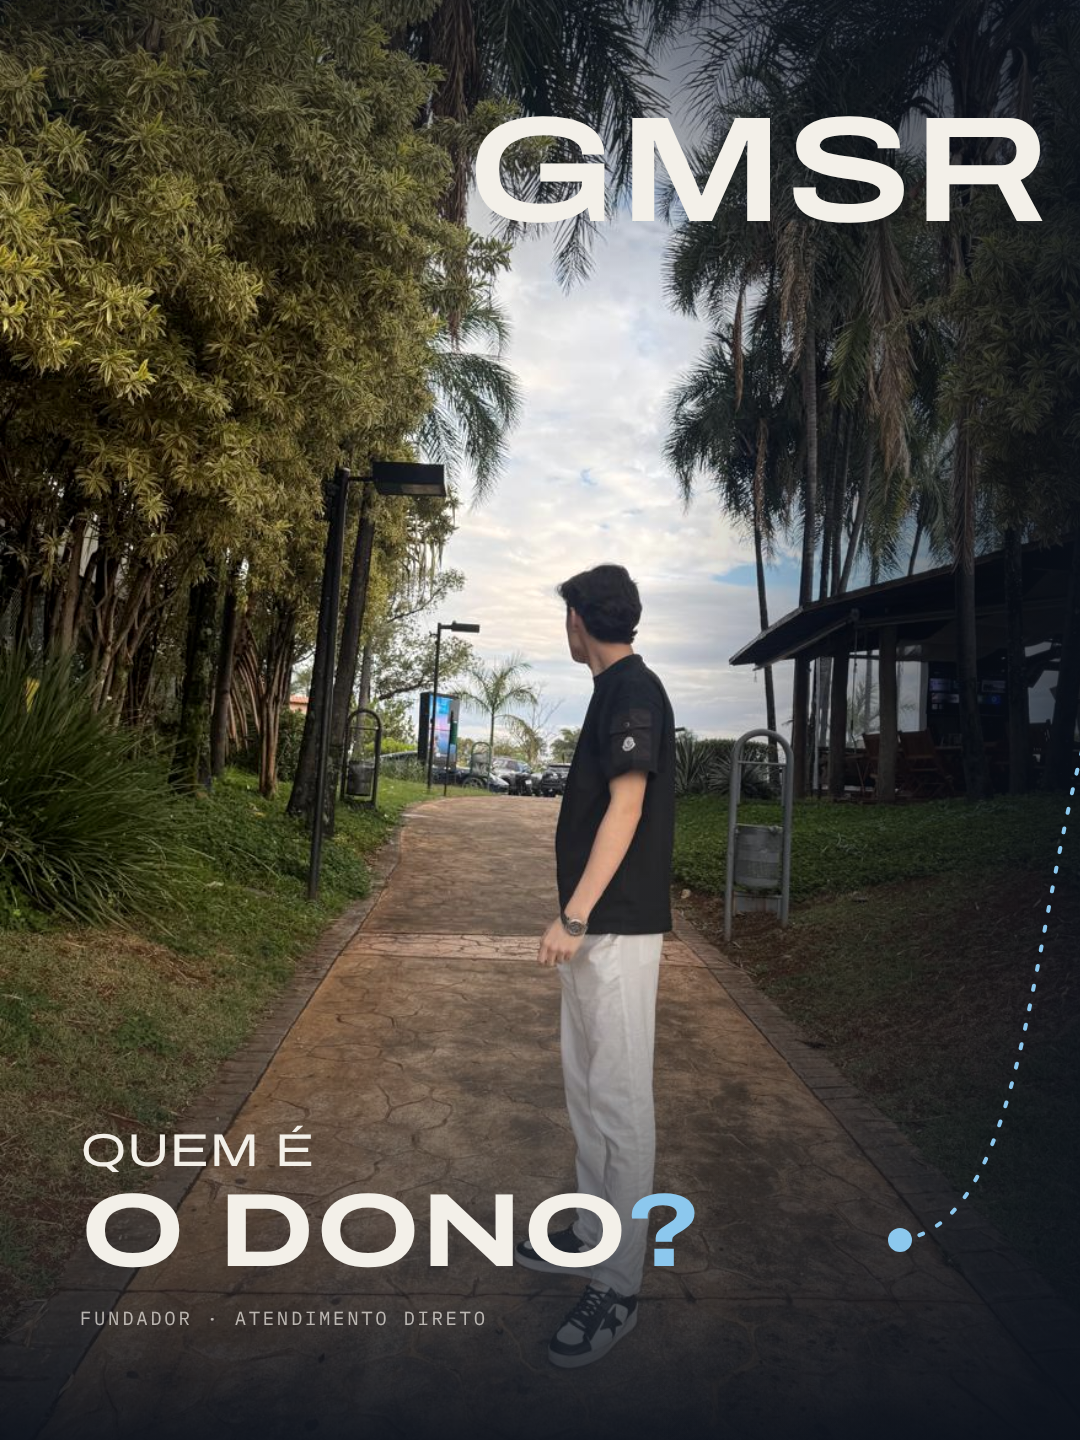
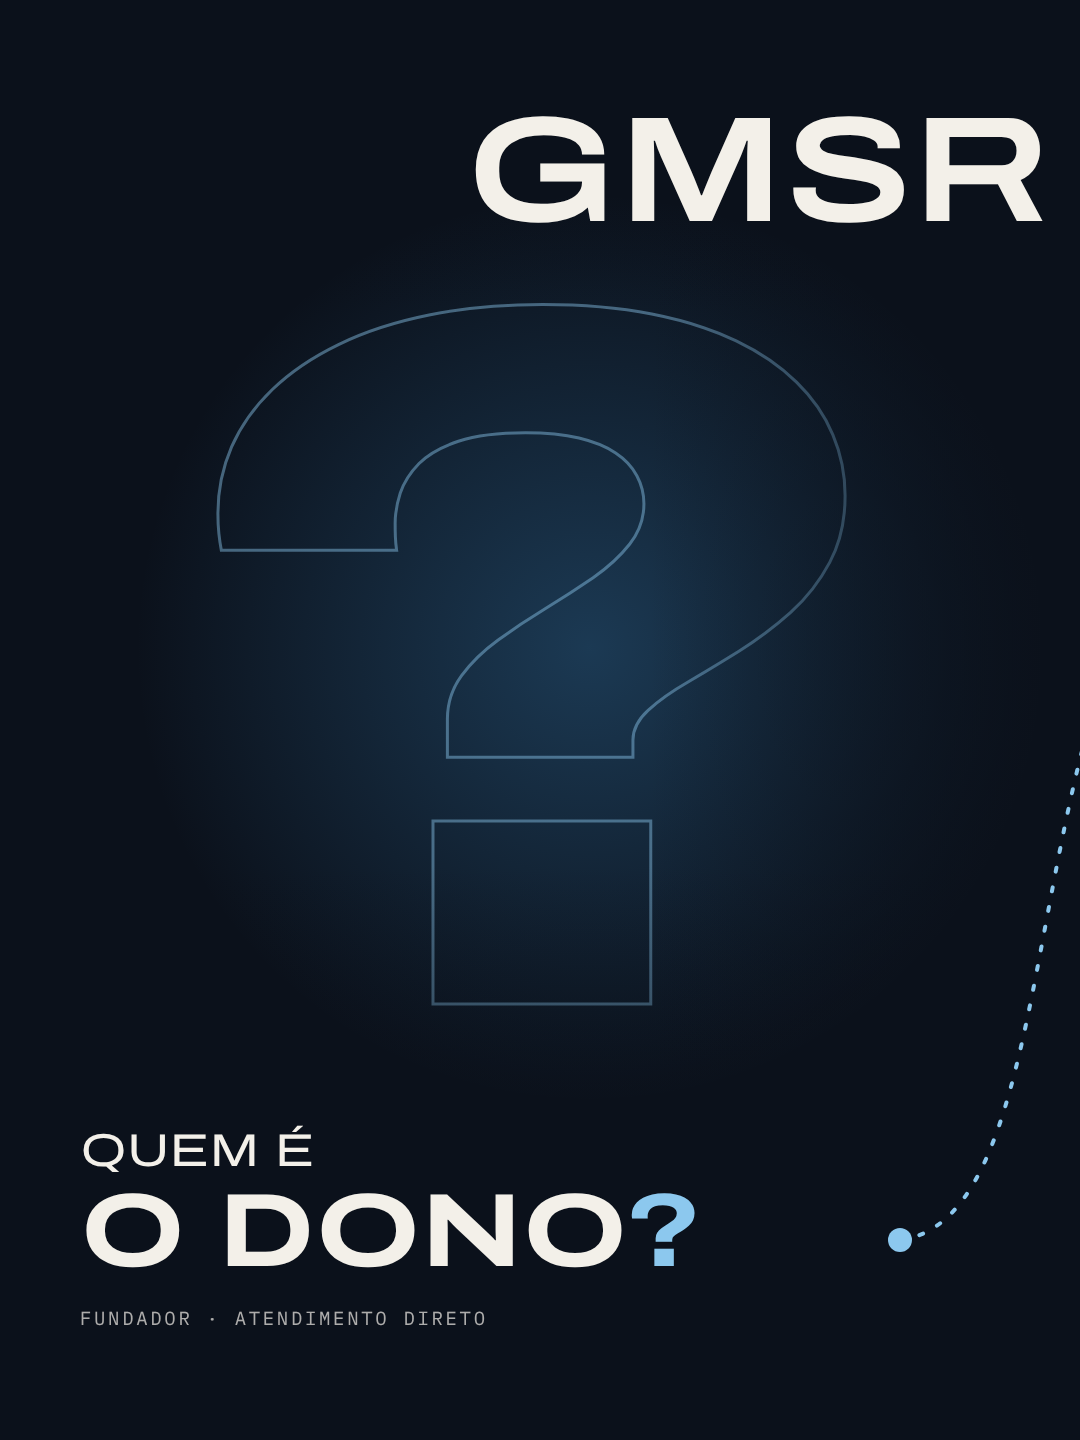
"Quem é o dono": 2 slides, pergunta sem foto e a foto dele no segundo
- Post do meio da grade sem foto, com um "?" grande (gera curiosidade)
- Carrossel do dono reduzido a 2 slides: a pergunta e a revelação com a foto
- Mesmo ajuste na capa do carrossel do processo, que compartilha a arte

Claude-Session: https://claude.ai/code/session_018Rxm36svjxPgU3W8TLCnbb

diff --git a/posts-grade/04-carrossel-dono/slides.html b/posts-grade/04-carrossel-dono/slides.html
@@ -108,12 +108,14 @@
   .pill3 p{font-family:Inter;font-size:24px;color:rgba(243,240,233,.72);margin-top:6px}
   .side{position:absolute;right:80px;top:330px;width:440px;height:900px;overflow:hidden;border:1px solid rgba(243,240,233,.16);z-index:3}
   .side img{width:100%;height:100%;object-fit:cover;object-position:50% 35%}
+  .pano .photo{background:radial-gradient(55% 45% at 50% 45%,rgba(62,143,203,.32),transparent 70%),#0B111B}
+  .pano .ask{position:absolute;left:0;width:1080px;top:170px;text-align:center;font-family:Wide;font-stretch:125%;font-weight:800;font-size:1000px;line-height:1;color:transparent;-webkit-text-stroke:3px rgba(140,200,238,.45)}
 </style>
 </head>
 <body>
 <template id="art">
   <div class="pano">
-    <div class="photo"><img src="../../assets/fotos/dono.jpg" alt=""></div>
+    <div class="photo"><div class="ask">?</div></div>
 
     <!-- rota tracejada que liga o meio à direita -->
     <svg class="route" viewBox="0 0 2160 1440">
@@ -164,42 +166,6 @@
     </div>
   </div>
   <div class="foot mono"><span>15°47′ S · 47°52′ O</span><span>Deslize →</span></div>
-</div></section>
-
-<!-- 03 · DE BRASÍLIA -->
-<section class="slide tile"><div class="c3"><div class="top"><img src="../../assets/logo/gmsr-mono-branco.png" alt=""><span class="mono counter"></span></div>
-  <div class="big">BSB</div><div class="lbl mono">A origem</div>
-  <div class="body" style="top:600px;right:560px">
-    <div class="w h" style="font-size:62px">De Brasília<br>para o <em>Brasil.</em></div>
-    <p>Com <b>18 anos</b>, ele criou a GMSR para levar peças escolhidas a dedo para quem gosta de se vestir bem, <b>em qualquer lugar do país.</b></p>
-  </div>
-  <div class="side"><img src="../../assets/fotos/dono-2.jpg" alt=""></div>
-  <div class="foot mono"><span>Brasília · DF</span><span>Deslize →</span></div>
-</div></section>
-
-<!-- 04 · O QUE ELE GARANTE -->
-<section class="slide tile"><div class="c3"><div class="top"><img src="../../assets/logo/gmsr-mono-branco.png" alt=""><span class="mono counter"></span></div>
-  <div class="body" style="top:330px">
-    <div class="mono" style="font-size:20px;color:var(--sky)">◆ O compromisso</div>
-    <div class="w h" style="margin-top:20px;font-size:66px">Quem escolhe<br>é <em>quem atende.</em></div>
-    <div class="pill3">
-      <div><i>01</i><span><b>Curadoria</b><p>Cada peça é escolhida a dedo, uma a uma.</p></span></div>
-      <div><i>02</i><span><b>Transparência</b><p>Você vê fotos e vídeos da sua peça antes do envio.</p></span></div>
-      <div><i>03</i><span><b>Atendimento</b><p>Direto no Direct, do primeiro “oi” até a entrega.</p></span></div>
-    </div>
-  </div>
-  <div class="foot mono"><span>GMSR Maison</span><span>Deslize →</span></div>
-</div></section>
-
-<!-- 05 · FINAL -->
-<section class="slide tile"><div class="c3" style="background:radial-gradient(60% 45% at 50% 45%,rgba(62,143,203,.3),transparent 70%),#0B111B"><div class="top"><img src="../../assets/logo/gmsr-mono-branco.png" alt=""><span class="mono counter"></span></div>
-  <div style="position:absolute;left:90px;right:90px;top:360px;text-align:center;z-index:3">
-    <img src="../../assets/logo/gmsr-mono-branco.png" style="width:220px" alt="">
-    <p class="quote" style="margin-top:60px">“Luxury isn't what we sell,<br><em>it's what you become.”</em></p>
-    <p class="mono" style="font-size:19px;color:rgba(243,240,233,.6);margin-top:30px">Fundador · GMSR Maison</p>
-    <div class="mono" style="display:inline-block;margin-top:60px;background:#F3F0E9;color:#0B111B;padding:22px 40px;font-size:24px">Fale com ele · @gmsr_maison</div>
-  </div>
-  <div class="foot mono"><span>Brasília · DF</span><span><em>Envio para todo o Brasil</em></span></div>
 </div></section>
 
 <script>

diff --git a/site-data.js b/site-data.js
@@ -25,10 +25,7 @@ window.VERSIONS = [
         "caption": "Quem é o dono da GMSR? ◆\n\n18 anos, de Brasília, à frente da GMSR Maison. Quem escolhe cada peça é quem te atende:\n\n◆ Curadoria: cada peça escolhida a dedo\n◆ Transparência: fotos e vídeos antes do envio\n◆ Atendimento: direto no Direct, do primeiro \"oi\" até a entrega\n\nDe Brasília para todo o Brasil.\n\n📩 Fale com ele: @gmsr_maison\n\n.\n.\n.\n#gmsrmaison #brasilia #boutique #modamasculina #empreendedorjovem",
         "slides": [
           "posts-grade/04-carrossel-dono/png/slide-01.png",
-          "posts-grade/04-carrossel-dono/png/slide-02.png",
-          "posts-grade/04-carrossel-dono/png/slide-03.png",
-          "posts-grade/04-carrossel-dono/png/slide-04.png",
-          "posts-grade/04-carrossel-dono/png/slide-05.png"
+          "posts-grade/04-carrossel-dono/png/slide-02.png"
         ],
         "ratio": "3/4",
         "preview": false

diff --git a/posts-grade/02-grade-mapa-processo/slides.html b/posts-grade/02-grade-mapa-processo/slides.html
@@ -52,6 +52,8 @@
   .pano .row p{font-family:Inter;font-size:23px;color:rgba(243,240,233,.72);margin-top:6px}
   .pano .cta{position:absolute;left:1230px;bottom:110px;z-index:3;font-size:19px;color:rgba(243,240,233,.7)}
   .pano .cta em{font-style:normal;color:var(--sky)}
+  .pano .photo{background:radial-gradient(55% 45% at 50% 45%,rgba(62,143,203,.32),transparent 70%),#0B111B}
+  .pano .ask{position:absolute;left:0;width:1080px;top:170px;text-align:center;font-family:Wide;font-stretch:125%;font-weight:800;font-size:1000px;line-height:1;color:transparent;-webkit-text-stroke:3px rgba(140,200,238,.45)}
 </style>
 </head>
 <body>
@@ -72,7 +74,7 @@
 
 <template id="art">
   <div class="pano">
-    <div class="photo"><img src="../../assets/fotos/dono.jpg" alt=""></div>
+    <div class="photo"><div class="ask">?</div></div>
 
     <!-- rota tracejada que liga o meio à direita -->
     <svg class="route" viewBox="0 0 2160 1440">

diff --git a/posts-grade/03-carrossel-processo/slides.html b/posts-grade/03-carrossel-processo/slides.html
@@ -89,12 +89,14 @@
   .phone.ref{top:690px}
   .refimg{align-self:flex-start;width:70%;background:#fff;border-radius:14px;overflow:hidden}
   .refimg img{width:100%;display:block}
+  .pano .photo{background:radial-gradient(55% 45% at 50% 45%,rgba(62,143,203,.32),transparent 70%),#0B111B}
+  .pano .ask{position:absolute;left:0;width:1080px;top:170px;text-align:center;font-family:Wide;font-stretch:125%;font-weight:800;font-size:1000px;line-height:1;color:transparent;-webkit-text-stroke:3px rgba(140,200,238,.45)}
 </style>
 </head>
 <body>
 <template id="art">
   <div class="pano">
-    <div class="photo"><img src="../../assets/fotos/dono.jpg" alt=""></div>
+    <div class="photo"><div class="ask">?</div></div>
 
     <!-- rota tracejada que liga o meio à direita -->
     <svg class="route" viewBox="0 0 2160 1440">

diff --git a/README.md b/README.md
@@ -12,7 +12,7 @@ O site é o `index.html` da raiz. Depois de gerar PNGs novos, rode `npm run site
 
 ## Posts
 
-O site mostra a **grade do perfil** [`posts-grade/02-grade-mapa-processo`](posts-grade/02-grade-mapa-processo): o mapa na esquerda (sozinho) e, no meio e na direita, uma arte contínua com "Quem é o dono?" e "Como funciona". A ordem de postagem está no `legenda.md`. O post do meio vira o carrossel [`posts-grade/04-carrossel-dono`](posts-grade/04-carrossel-dono) (5 slides). O post da direita vira o carrossel [`posts-grade/03-carrossel-processo`](posts-grade/03-carrossel-processo) (6 slides), cujo slide 1 é a própria arte da grade.
+O site mostra a **grade do perfil** [`posts-grade/02-grade-mapa-processo`](posts-grade/02-grade-mapa-processo): o mapa na esquerda (sozinho) e, no meio e na direita, uma arte contínua com "Quem é o dono?" e "Como funciona". A ordem de postagem está no `legenda.md`. O post do meio vira o carrossel [`posts-grade/04-carrossel-dono`](posts-grade/04-carrossel-dono) (2 slides). O post da direita vira o carrossel [`posts-grade/03-carrossel-processo`](posts-grade/03-carrossel-processo) (6 slides), cujo slide 1 é a própria arte da grade.
 
 Os posts não citam nomes de marcas nem afirmam originalidade. As pastas `posts/`, `posts-v2/`, `posts-v3/`, `posts-extra/` e `posts-grade/01-grade-loja` são rascunhos antigos e não aparecem no site.
 

diff --git a/posts-grade/04-carrossel-dono/legenda.md b/posts-grade/04-carrossel-dono/legenda.md
@@ -1,7 +1,7 @@
 # Carrossel · Quem é o dono (post do meio da grade)
 
-**Formato:** carrossel, 5 slides (1080×1440, 3:4)
-**Imagens:** `png/slide-01.png` … `png/slide-05.png`
+**Formato:** carrossel, 2 slides (1080×1440, 3:4)
+**Imagens:** `png/slide-01.png` (pergunta) e `png/slide-02.png` (a foto dele)
 
 O slide 1 é o post do meio da grade. Use este carrossel **no lugar** dele: no perfil aparece só o slide 1, então a arte continua ligada com o post da direita.
 
